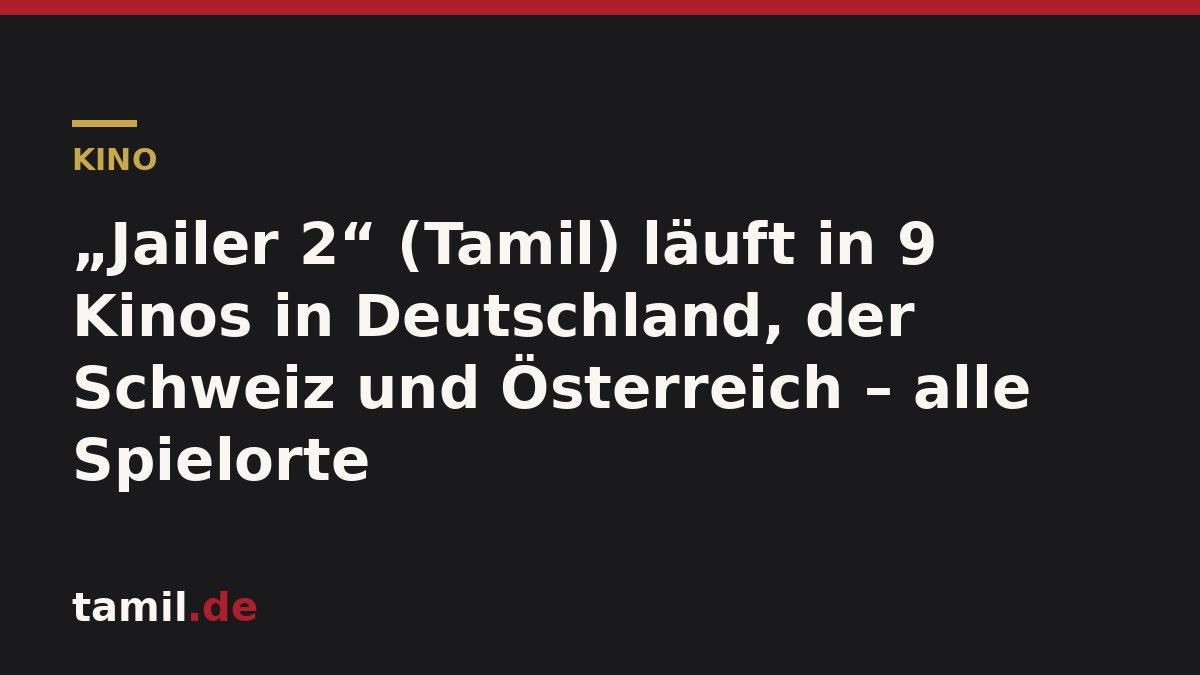
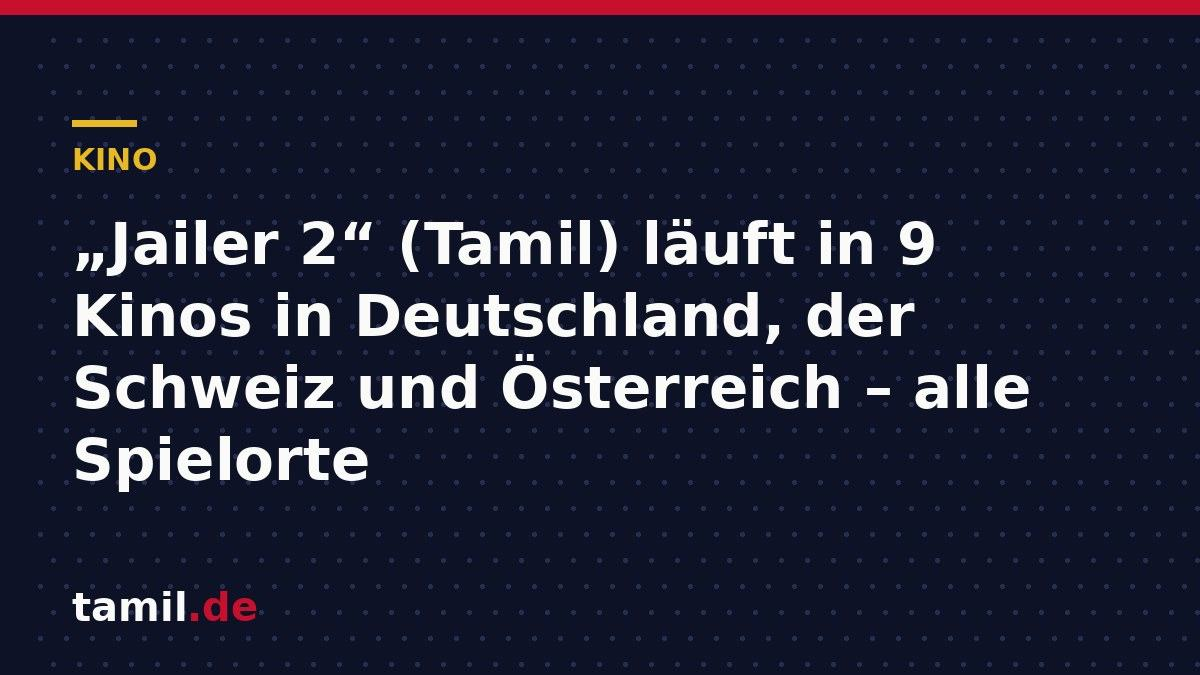
feat(images): Tamil.de-Bildkarten in der v2-Palette mit Kolam-Punktraster
Claude-Session: https://claude.ai/code/session_01VBg2WFSs9tPNRidQXUcJan

diff --git a/news_radar/images.py b/news_radar/images.py
@@ -18,11 +18,12 @@ from .config import Settings
 
 log = logging.getLogger(__name__)
 
-# Farben aus dem Tamil.de-Designsystem
-ROT = (176, 30, 44)
-GOLD = (201, 168, 76)
-ANTHRAZIT = (26, 26, 28)
-WARMWEISS = (250, 247, 242)
+# Farben aus dem Tamil.de-Designsystem v2 („Radar“): Nacht, Kumkum, Manjal, Papier
+ROT = (200, 16, 46)
+GOLD = (232, 185, 35)
+ANTHRAZIT = (14, 18, 38)
+WARMWEISS = (250, 250, 248)
+RASTER = (38, 45, 82)
 
 SIZE = (1200, 675)
 _FONT_CANDIDATES = [
@@ -60,6 +61,9 @@ def _wrap(draw: ImageDraw.ImageDraw, text: str, font, max_width: int) -> list[st
 def branded_card(title: str, category_label: str, slug: str) -> FeaturedImage:
     img = Image.new("RGB", SIZE, ANTHRAZIT)
     draw = ImageDraw.Draw(img)
+    for y in range(40, SIZE[1], 26):  # Kolam-Punktraster wie auf der Radar-Bühne
+        for x in range(40 + (13 if (y // 26) % 2 else 0), SIZE[0], 26):
+            draw.ellipse([x - 2, y - 2, x + 2, y + 2], fill=RASTER)
     draw.rectangle([0, 0, SIZE[0], 14], fill=ROT)
     draw.rectangle([72, 120, 72 + 64, 126], fill=GOLD)
     draw.text((72, 142), category_label.upper(), font=_font(30), fill=GOLD)
